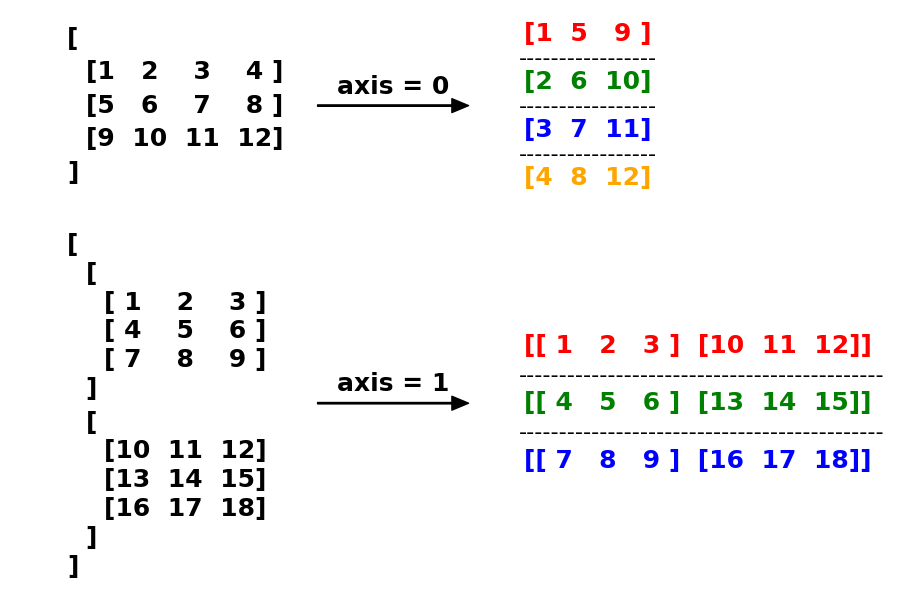
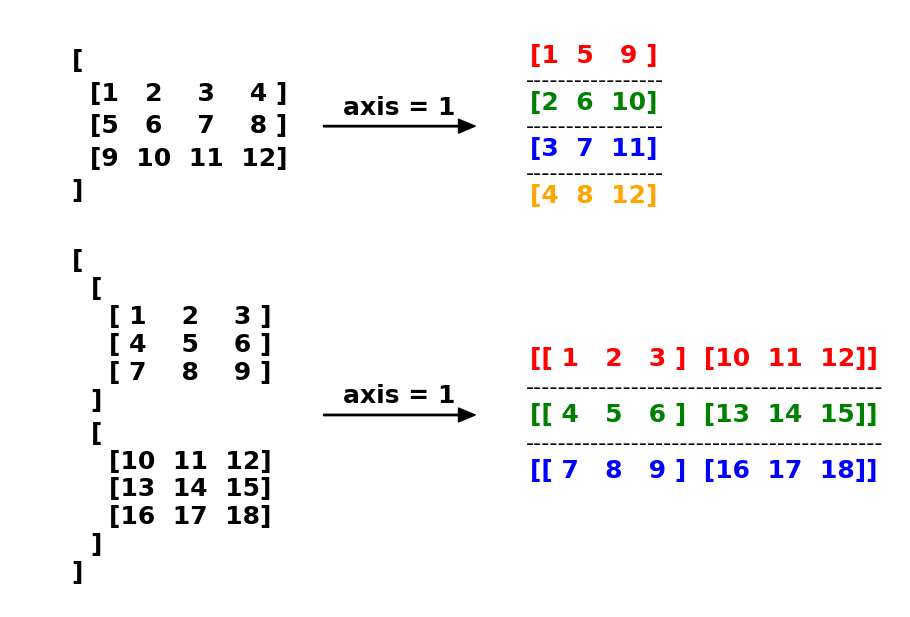
图例说明修正

diff --git a/docs/api/paddle/unstack_cn.rst b/docs/api/paddle/unstack_cn.rst
@@ -25,7 +25,7 @@ unstack
 ::::::::::::
  长度为 num 的 Tensor 列表，数据类型与输入 Tensor 相同，dim 为 ``(D-1)``。
 
-也可以参考下方的图示来理解 ``unstack`` 是如何对张量进行变换的。图中分别展示了一个形状为 ``(3, 4)`` 的 Tensor 在 ``axis=0`` 和一个形状为 ``(2, 3, 3)`` 的 Tensor 在 ``axis=1`` 的 unstack 操作。
+也可以参考下方的图示来理解 ``unstack`` 是如何对张量进行变换的。图中分别展示了一个形状为 ``(3, 4)`` 的 Tensor 在 ``axis=1`` 和一个形状为 ``(2, 3, 3)`` 的 Tensor 在 ``axis=1`` 的 unstack 操作。
 
 .. image:: ../../images/api_legend/unstack.png
    :width: 500
